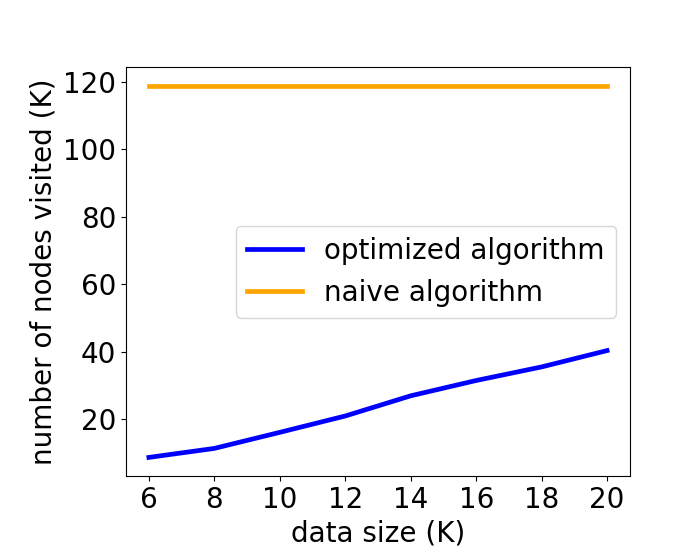
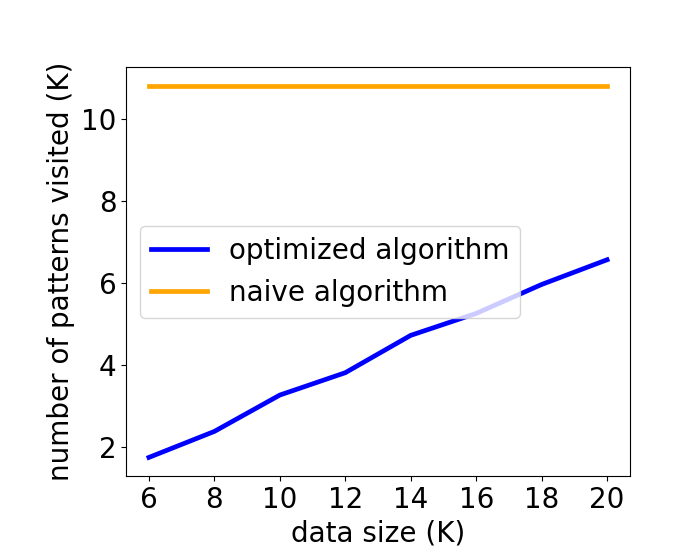
general, compas datasize

diff --git a/Coding/Experiments/General_FP/CompasData/data_size_1_20210629.py b/Coding/Experiments/General_FP/CompasData/data_size_1_20210629.py
@@ -14,7 +14,7 @@ x axis: data sizes: 100, 500, 1000, 5000, 10000, 40000
 
 Other parameters:
 selected_attributes = ['age', 'education', 'marital-status', 'race', 'gender', 'workclass']
-threshold of cardinality Thc = 30
+size threshold Thc = 30
 threshold of minority group accuracy: overall acc - 20
 
 """
@@ -111,8 +111,8 @@ def GridSearch(original_data_file_pathpre, datasize, thc, selected_attributes):
 
 
 
-selected_attributes = ['sexC', 'ageC', 'raceC', 'MC', 'priors_count_C', 'c_charge_degree',
-                       'decile_score']
+selected_attributes = ['sexC', 'ageC', 'raceC', 'MC', 'priors_count_C', 'c_charge_degree']
+
 data_sizes = [6000, 8000, 10000, 12000, 14000, 16000, 18000, 20000]
 Thc = 50
 original_data_file_pathprefix = "../../../../InputData/CompasData/LargerDatasets/"
@@ -191,7 +191,7 @@ plt.plot(data_sizes, num_patterns_checked2, label="naive algorithm", color='oran
 plt.xlabel('data size (K)')
 plt.xticks([6000, 8000, 10000, 12000, 14000, 16000, 18000, 20000])
 ax.xaxis.set_major_formatter(FuncFormatter(thousands_formatter))
-plt.ylabel('number of nodes visited (K)')
+plt.ylabel('number of patterns visited (K)')
 ax.yaxis.set_major_formatter(FuncFormatter(thousands_formatter))
 plt.subplots_adjust(bottom=0.15, left=0.18)
 plt.legend()

diff --git a/Coding/Experiments/General_FP/CompasData/data_size_0_20210521.py b/Coding/Experiments/General_FP/CompasData/data_size_0_20210521.py
@@ -14,7 +14,7 @@ x axis: data sizes: 100, 500, 1000, 5000, 10000, 40000
 
 Other parameters:
 selected_attributes = ['age', 'education', 'marital-status', 'race', 'gender', 'workclass']
-threshold of cardinality Thc = 30
+size threshold Thc = 30
 threshold of minority group accuracy: overall acc - 20
 
 """
@@ -181,7 +181,7 @@ plt.plot(data_sizes, num_patterns_checked2, label="naive algorithm", color='oran
 plt.xlabel('data size (K)')
 plt.xticks([6000, 8000, 10000, 12000, 14000, 16000, 18000, 20000])
 ax.xaxis.set_major_formatter(FuncFormatter(thousands_formatter))
-plt.ylabel('number of nodes visited (K)')
+plt.ylabel('number of patterns visited (K)')
 ax.yaxis.set_major_formatter(FuncFormatter(thousands_formatter))
 plt.subplots_adjust(bottom=0.15, left=0.18)
 plt.legend()
